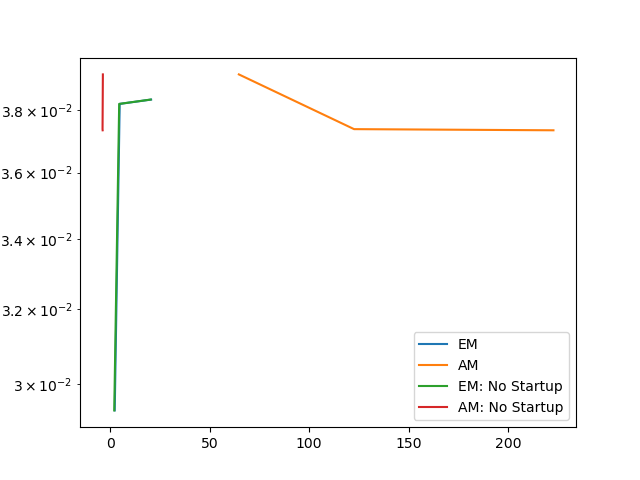
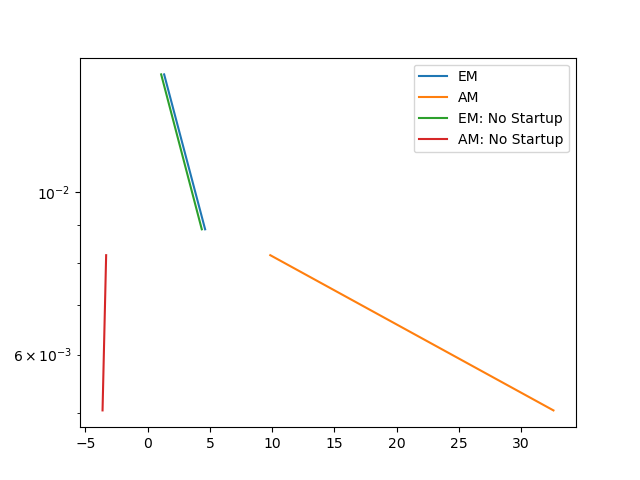
moved into one folder

diff --git a/CompareAMandEM.py b/CompareAMandEM.py
@@ -14,15 +14,15 @@ if dimension ==1:
     radius = 5
     kstepMin= 0.06
     kstepMax = 0.07
-    h = 0.01
-    endTime =10
+    # h = 0.01
+    endTime =3
 
 if dimension ==2:
     beta = 3
     radius =1
     kstepMin= 0.08
     kstepMax = 0.09
-    h = 0.05
+    # h = 0.05
     endTime = 0.5
 
 
@@ -31,7 +31,7 @@ if dimension ==3:
     radius = 0.5
     kstepMin= 0.08
     kstepMax = 0.085
-    h = 0.01
+    # h = 0.01
     endTime = 0.1
 
 # driftFunction = functionBank.zeroDrift
@@ -51,10 +51,9 @@ timesNoStartupAM = []
 
 sde = SDE(dimension, driftFunction, diffusionFunction, spatialDiff)
 meshApprox, pdfApprox = sde.ApproxExactSoln(endTime,20, 0.05)
-hvals = [0.01, 0.05, 0.1]
+hvals = [0.05, 0.1]
 # hvals =[0.05]
 for h in hvals:
-
     parametersEM = Parameters(sde, beta, radius, kstepMin, kstepMax, h,useAdaptiveMesh =True, timeDiscretizationType = "EM")
     startEM = time.time()
     simulationEM = Simulation(sde, parametersEM, endTime)
@@ -84,8 +83,10 @@ from mpl_toolkits.mplot3d import Axes3D
 
 # fig =plt.figure()
 # ax = Axes3D(fig)
-# ax.scatter(meshApprox[:,0],meshApprox[:,1], pdfApprox)
-# plt.scatter(simulationAM.meshTrajectory[-1], simulationAM.pdfTrajectory[-1])
+# plt.scatter(meshApprox, pdfApprox)
+# plt.scatter(simulationEM.meshTrajectory[0], simulationEM.pdfTrajectory[0])
+# plt.scatter(simulationEM.meshTrajectory[-1], simulationEM.pdfTrajectory[-1])
+
 
 # plt.scatter(simulationEM.meshTrajectory[-1],simulationEM.pdfTrajectory[-1])
 

diff --git a/Class_SDE.py b/Class_SDE.py
@@ -3,6 +3,8 @@ import NDFunctionBank
 from Class_Parameters import Parameters
 from Class_PDF import PDF
 from Class_Simulation import Simulation
+import matplotlib.pyplot as plt
+
 class SDE:
     def __init__(self, dimension, driftFunction, diffusionFunction, spatialDiff):
         self.dimension = dimension
@@ -14,16 +16,17 @@ class SDE:
         beta = 3 # Not really used
         kstepMin = xStep
         kstepMax = xStep # Not really used
-        h = 0.001
+        h = 0.05 # Do not make less
 
         parameters = Parameters(self, beta, radius, kstepMin, kstepMax, h, False, timeDiscretizationType = "EM")
         pdf = PDF(self, parameters)
         simulation= Simulation(self, parameters, endTime)
         G = simulation.integrator.TransitionMatrix
         numSteps = int(endTime/parameters.h)
+        # plt.figure()
         for i in range(numSteps):
             pdf.pdfVals = kstepMin**self.dimension*G[:len(pdf.pdfVals), :len(pdf.pdfVals)]@pdf.pdfVals
-
+            # plt.scatter(pdf.meshCoordinates, pdf.pdfVals)
         return pdf.meshCoordinates, pdf.pdfVals
 
 
